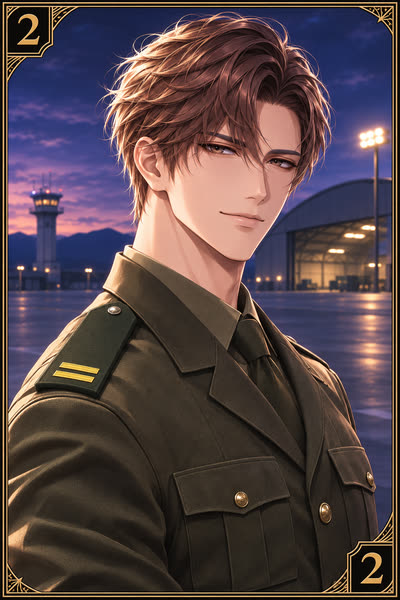
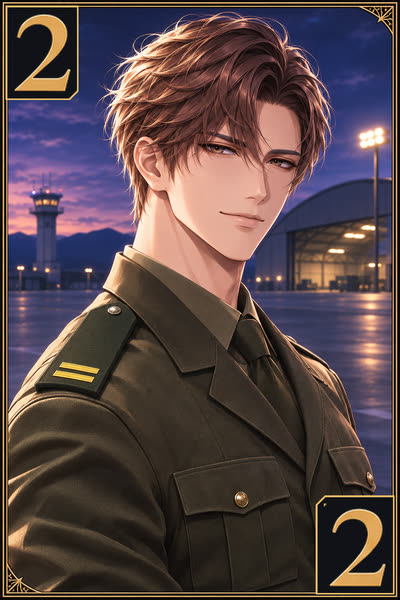
更新七位軍官與七種配件的卡圖（依新版圖檔置換）
Claude-Session: https://claude.ai/code/session_01ACfvU1XGwYhZHBr9W8QLj4

Changed region(s): [[0.78, 0.81, 0.99, 1.0], [0.0, 0.0, 0.21, 0.18]]

diff --git a/sw.js b/sw.js
@@ -1,4 +1,4 @@
-const CACHE='app-1794307723';
+const CACHE='app-1794307982';
 const CORE=['./','./index.html','./manifest.json','./icon-180.png','./icon-192.png','./icon-512.png','./cards/A.jpg','./cards/B.jpg','./cards/C.jpg','./cards/D.jpg','./cards/E.jpg','./cards/F.jpg','./cards/G.jpg','./items/A.jpg','./items/B.jpg','./items/C.jpg','./items/D.jpg','./items/E.jpg','./items/F.jpg','./items/G.jpg'];
 self.addEventListener('install',e=>{e.waitUntil(caches.open(CACHE).then(c=>c.addAll(CORE)));self.skipWaiting()});
 self.addEventListener('activate',e=>{e.waitUntil(caches.keys().then(ks=>Promise.all(ks.filter(k=>k!==CACHE).map(k=>caches.delete(k)))));self.clients.claim()});
